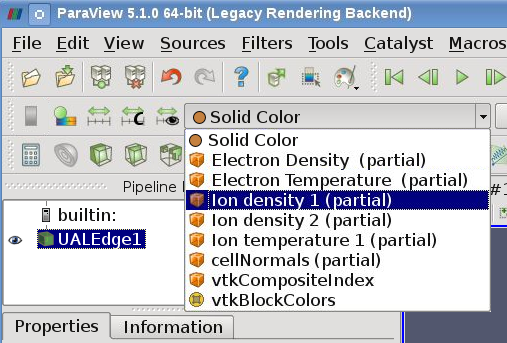
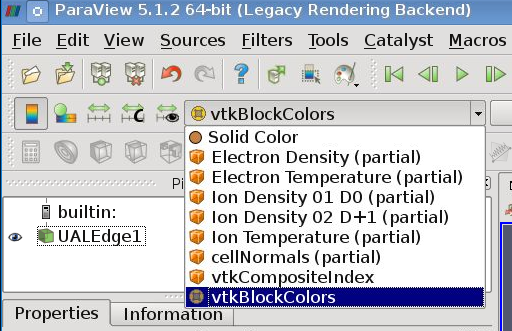
Update charge labels and add pyton calculator example

diff --git a/doc/source/tutorial/edgeualplugin/index.rst b/doc/source/tutorial/edgeualplugin/index.rst
@@ -12,7 +12,6 @@ ParaView application [1]_ and how to run and use ReadUALEdge
 ParaView plugin on hpc-app1.iter.org or hpc-login4.iter.org login nodes.
 
 
-
 Introduction to ParaView
 -------------------------
 
@@ -67,19 +66,18 @@ Loading the plugin
 
 After launching the ParaView application the start window appears.
 
-
-.. figure:: images/1_start_window_marked.png
-   :align: center
-   :alt: ParaView start window
-
-   ParaView start window.
-
 The main parts are:
 
  1. Menu bar
  2. Toolbar
  3. Pipeline Browser
  4. View Browser
+
+.. figure:: images/1_start_window_marked.png
+   :align: center
+   :alt: ParaView start window
+
+   ParaView start window.
 
 Loading and running the ReadUALEdge plugin is done in the next few steps:
 
@@ -262,7 +260,7 @@ Python Calculator filter
 Python Calculator filter allows us to work with data arrays (Electron
 Density, Ion Temperature etc.) and create new data array to display
 the results. It can be found under :menuselection:`Filter -->
-Alphabetical --> Python` ``Calculator`` as seen in
+Alphabetical -->` ``Python Calculator`` as seen in
 :numref:`pv-python-calculator1` and
 :numref:`pv-python-calculator2`.
 
@@ -291,7 +289,7 @@ and custom *Array Name*. An example is shown in
 options:
 
 -  | Expression:
-   | ``inputs[0].CellData[’Ion Density 1’]+inputs[0].CellData[’Ion Density 2’]``
+   | ``inputs[0].CellData[’Ion Density 01 D0’]+inputs[0].CellData[’Ion Density 02 D+1’]``
 
 -  | Array Association: Cell Data
 
@@ -305,8 +303,8 @@ options:
 
    Sum of Ion Density arrays scalars as Custom Data Array
 
-In this case the Python Calculator created a sum of *Ion Density 1* and
-*Ion Density 2* data arrays and created new data array called *Custom
+In this case the Python Calculator created a sum of *Ion Density 01 D0* and
+*Ion Density 02 D+1* data arrays and created new data array called *Custom
 Array Name*, which can be chosen from the Data Array list and analyzed.
 
 .. note::
@@ -350,13 +348,52 @@ ParaView Python Shell can be found navigating to :menuselection:`Tools
    ParaView Python Shell window
 
 Here we’ll show an example solving the issue with quite long Python
-Calculator Expressions. The IDS database ``Shot:1; Run:1; User: kosl;
+Calculator Expression. The IDS database ``Shot:1; Run:1; User: kosl;
 Tokamak: iter`` has almost 100 Ion Density data arrays, so very long
-expression is needed to create a sum of all of them, but because inside
-the expression the functions are being repeated we can easily generate
-it using Python Shell.
+expression is needed to create a sum of all of them. One way to avoid
+typing the expression by hand is by writing Python
+script, in which we read array names directly from ParaView loaded source
+and then generate the expression, and then running it inside Paraview Python Shell,
 
-The Python script and part of its output is shown in
+Example of ``Generate_Py_Calc_Expression.py`` Python script is shown below.
+
+.. code-block:: python
+
+    from paraview.simple import *
+
+    def GenerateExpression():
+        # Creating python calculator sum(all_edge_arrays) expression by reading array names
+        # directly from ParaView.
+        # IMPORTANT: The UALEdge source in Pipeline Browser bust be selected/highlighted in
+        # order for it to work!
+
+        reader = GetActiveSource() # Get data from currently selected/highlighted source in
+                                   # the Pipeline Browser.
+        UpdatePipeline()
+        numOfArrays = len(reader.CellData)
+
+        for i in range(numOfArrays):
+            # Getting the name of i-th array.
+            arrayName = reader.CellData[i].GetName()
+            # Printing the expression.
+            print "inputs[0].CellData['%s']" % (arrayName),
+            if i + 1 < numOfArrays:
+                print "+",
+
+    if __name__ == "__main__":
+        print("This script is intended to use with ParaView Shell not as a standalone script!")
+
+    GenerateExpression()
+
+
+
+To run the Python script press ``Run Script`` button found in Python Shell interface, navigate to your Python script and then press OK.
+
+.. note::
+    The ``GetActiveSource()`` function reads data from currently selected/highlighted source in the
+    Pipeline Browser, so make sure you have UALEdge source selected BEFORE running the script!
+
+Part of the output of the Python script is shown in
 :numref:`pv-python-shell3`.
 
 .. _pv-python-shell3:
@@ -364,6 +401,11 @@ The Python script and part of its output is shown in
    :alt: Python Shell code and output
 
    Python Shell code and output
+
+In this case the script reads names of all available data arrays and also uses
+all of them to create Python Calculator Expression. If we want to use only some
+data arrays in Python Calculator we can just copy parts of the generated expression
+or modify the script to get the desired output.
 
 The results of using the mentioned IDS database and the generated
 expression by copying it are shown in
